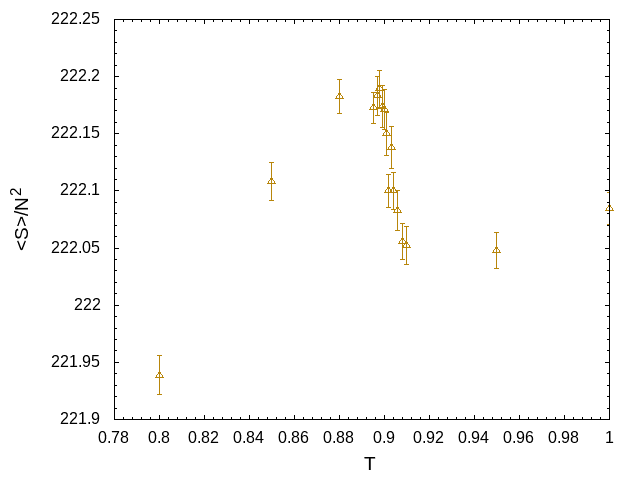
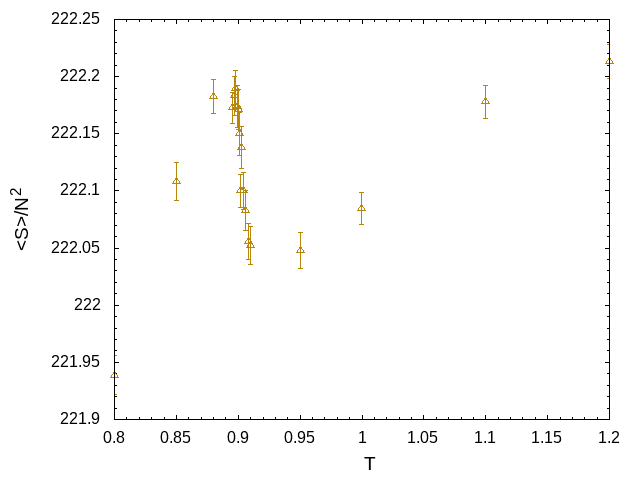
Added more ramp results

diff --git a/MatrixModels/BMN_Bosonic_Gauged/Nc32_24_mu2.0/t0.96/index.html b/MatrixModels/BMN_Bosonic_Gauged/Nc32_24_mu2.0/t0.96/index.html
@@ -1,0 +1,83 @@
+<html><head>
+<style>
+</style>
+<title>BMN_Bosonic_Gauged/Nc32_24_mu2.0/t0.96</title>
+</head>
+<body>
+<h1>BMN_Bosonic_Gauged/Nc32_24_mu2.0/t0.96</h1>
+  <div>
+    <table>
+      <tr><th>Action </th><th>Energy </th><th>Extent </th><th>SO(3) X SO(6) </th></tr>
+      <tr>
+        <td style="width:440px; height:300px;">
+        <img src="Results/action.png" width=400 height=300 />
+        </td>
+        <td style="width:440px; height:300px;">
+        <img src="Results/energy.png" width=400 height=300 />
+        </td>
+        <td style="width:440px; height:300px;">
+        <img src="Results/extent.png" width=400 height=300 />
+        </td>
+        <td style="width:440px; height:300px;">
+        <img src="Results/so.png" width=400 height=300 />
+        </td>
+      </tr>
+    </table>
+</div>
+  <div>
+    <table>
+      <tr><th>Gauge Force </th><th>Myers </th><th>Polyakov Loop </th><th>Polyakov Loop Scatter Plot </th></tr>
+      <tr>
+        <td style="width:440px; height:300px;">
+        <img src="Results/forces.png" width=400 height=300 />
+        </td>
+        <td style="width:440px; height:300px;">
+        <img src="Results/myers.png" width=400 height=300 />
+        </td>
+        <td style="width:440px; height:300px;">
+        <img src="Results/poly_mod.png" width=400 height=300 />
+        </td>
+        <td style="width:440px; height:300px;">
+        <img src="Results/poly.png" width=400 height=300 />
+        </td>
+      </tr>
+    </table>
+</div>
+ <div>
+    <table>
+      <tr><th>delta S </th><th>exp (- delta S) </th><th>|deta S| </th><th>Steps per Trajec </th></tr>
+      <tr>
+        <td style="width:440px; height:300px;">
+        <img src="Results/del.png" width=400 height=300 />
+        </td>
+        <td style="width:440px; height:300px;">
+        <img src="Results/exp_del.png" width=400 height=300 />
+        </td>
+        <td style="width:440px; height:300px;">
+        <img src="Results/mod_del.png" width=400 height=300 />
+        </td>
+        <td style="width:440px; height:300px;">
+        <img src="Results/nstep.png" width=400 height=300 />
+        </td>
+      </tr>
+    </table>
+</div>
+ <div>
+    <table>
+      <tr><th></th><th>Trajectory Length </th><th>HMC Acceptance Rate </th><th></th></tr>
+      <tr>
+      <td style="width:440px; height:300px;">
+      </td>
+        <td style="width:440px; height:300px;">
+        <img src="Results/traj.png" width=400 height=300 />
+        </td>
+        <td style="width:440px; height:300px;">
+        <img src="Results/rate.png" width=400 height=300 />
+        </td>
+        <td style="width:440px; height:300px;">
+      </td>
+      </tr>
+    </table>
+</div>
+</body>
+</html>

diff --git a/MatrixModels/BMN_Bosonic_Gauged/Nc32_24_mu1.0/t1.1/index.html b/MatrixModels/BMN_Bosonic_Gauged/Nc32_24_mu1.0/t1.1/index.html
@@ -1,0 +1,83 @@
+<html><head>
+<style>
+</style>
+<title>BMN_Bosonic_Gauged/Nc32_24_mu1.0/t1.1</title>
+</head>
+<body>
+<h1>BMN_Bosonic_Gauged/Nc32_24_mu1.0/t1.1</h1>
+  <div>
+    <table>
+      <tr><th>Action </th><th>Energy </th><th>Extent </th><th>SO(3) X SO(6) </th></tr>
+      <tr>
+        <td style="width:440px; height:300px;">
+        <img src="Results/action.png" width=400 height=300 />
+        </td>
+        <td style="width:440px; height:300px;">
+        <img src="Results/energy.png" width=400 height=300 />
+        </td>
+        <td style="width:440px; height:300px;">
+        <img src="Results/extent.png" width=400 height=300 />
+        </td>
+        <td style="width:440px; height:300px;">
+        <img src="Results/so.png" width=400 height=300 />
+        </td>
+      </tr>
+    </table>
+</div>
+  <div>
+    <table>
+      <tr><th>Gauge Force </th><th>Myers </th><th>Polyakov Loop </th><th>Polyakov Loop Scatter Plot </th></tr>
+      <tr>
+        <td style="width:440px; height:300px;">
+        <img src="Results/forces.png" width=400 height=300 />
+        </td>
+        <td style="width:440px; height:300px;">
+        <img src="Results/myers.png" width=400 height=300 />
+        </td>
+        <td style="width:440px; height:300px;">
+        <img src="Results/poly_mod.png" width=400 height=300 />
+        </td>
+        <td style="width:440px; height:300px;">
+        <img src="Results/poly.png" width=400 height=300 />
+        </td>
+      </tr>
+    </table>
+</div>
+ <div>
+    <table>
+      <tr><th>delta S </th><th>exp (- delta S) </th><th>|deta S| </th><th>Steps per Trajec </th></tr>
+      <tr>
+        <td style="width:440px; height:300px;">
+        <img src="Results/del.png" width=400 height=300 />
+        </td>
+        <td style="width:440px; height:300px;">
+        <img src="Results/exp_del.png" width=400 height=300 />
+        </td>
+        <td style="width:440px; height:300px;">
+        <img src="Results/mod_del.png" width=400 height=300 />
+        </td>
+        <td style="width:440px; height:300px;">
+        <img src="Results/nstep.png" width=400 height=300 />
+        </td>
+      </tr>
+    </table>
+</div>
+ <div>
+    <table>
+      <tr><th></th><th>Trajectory Length </th><th>HMC Acceptance Rate </th><th></th></tr>
+      <tr>
+      <td style="width:440px; height:300px;">
+      </td>
+        <td style="width:440px; height:300px;">
+        <img src="Results/traj.png" width=400 height=300 />
+        </td>
+        <td style="width:440px; height:300px;">
+        <img src="Results/rate.png" width=400 height=300 />
+        </td>
+        <td style="width:440px; height:300px;">
+      </td>
+      </tr>
+    </table>
+</div>
+</body>
+</html>

diff --git a/MatrixModels/BMN_Bosonic_Gauged/Nc32_24_mu1.0/t1.2/index.html b/MatrixModels/BMN_Bosonic_Gauged/Nc32_24_mu1.0/t1.2/index.html
@@ -1,0 +1,83 @@
+<html><head>
+<style>
+</style>
+<title>BMN_Bosonic_Gauged/Nc32_24_mu1.0/t1.2</title>
+</head>
+<body>
+<h1>BMN_Bosonic_Gauged/Nc32_24_mu1.0/t1.2</h1>
+  <div>
+    <table>
+      <tr><th>Action </th><th>Energy </th><th>Extent </th><th>SO(3) X SO(6) </th></tr>
+      <tr>
+        <td style="width:440px; height:300px;">
+        <img src="Results/action.png" width=400 height=300 />
+        </td>
+        <td style="width:440px; height:300px;">
+        <img src="Results/energy.png" width=400 height=300 />
+        </td>
+        <td style="width:440px; height:300px;">
+        <img src="Results/extent.png" width=400 height=300 />
+        </td>
+        <td style="width:440px; height:300px;">
+        <img src="Results/so.png" width=400 height=300 />
+        </td>
+      </tr>
+    </table>
+</div>
+  <div>
+    <table>
+      <tr><th>Gauge Force </th><th>Myers </th><th>Polyakov Loop </th><th>Polyakov Loop Scatter Plot </th></tr>
+      <tr>
+        <td style="width:440px; height:300px;">
+        <img src="Results/forces.png" width=400 height=300 />
+        </td>
+        <td style="width:440px; height:300px;">
+        <img src="Results/myers.png" width=400 height=300 />
+        </td>
+        <td style="width:440px; height:300px;">
+        <img src="Results/poly_mod.png" width=400 height=300 />
+        </td>
+        <td style="width:440px; height:300px;">
+        <img src="Results/poly.png" width=400 height=300 />
+        </td>
+      </tr>
+    </table>
+</div>
+ <div>
+    <table>
+      <tr><th>delta S </th><th>exp (- delta S) </th><th>|deta S| </th><th>Steps per Trajec </th></tr>
+      <tr>
+        <td style="width:440px; height:300px;">
+        <img src="Results/del.png" width=400 height=300 />
+        </td>
+        <td style="width:440px; height:300px;">
+        <img src="Results/exp_del.png" width=400 height=300 />
+        </td>
+        <td style="width:440px; height:300px;">
+        <img src="Results/mod_del.png" width=400 height=300 />
+        </td>
+        <td style="width:440px; height:300px;">
+        <img src="Results/nstep.png" width=400 height=300 />
+        </td>
+      </tr>
+    </table>
+</div>
+ <div>
+    <table>
+      <tr><th></th><th>Trajectory Length </th><th>HMC Acceptance Rate </th><th></th></tr>
+      <tr>
+      <td style="width:440px; height:300px;">
+      </td>
+        <td style="width:440px; height:300px;">
+        <img src="Results/traj.png" width=400 height=300 />
+        </td>
+        <td style="width:440px; height:300px;">
+        <img src="Results/rate.png" width=400 height=300 />
+        </td>
+        <td style="width:440px; height:300px;">
+      </td>
+      </tr>
+    </table>
+</div>
+</body>
+</html>

diff --git a/MatrixModels/BMN_Bosonic_Gauged/Nc32_24_mu2.0/t1.1/index.html b/MatrixModels/BMN_Bosonic_Gauged/Nc32_24_mu2.0/t1.1/index.html
@@ -1,0 +1,83 @@
+<html><head>
+<style>
+</style>
+<title>BMN_Bosonic_Gauged/Nc32_24_mu2.0/t1.1</title>
+</head>
+<body>
+<h1>BMN_Bosonic_Gauged/Nc32_24_mu2.0/t1.1</h1>
+  <div>
+    <table>
+      <tr><th>Action </th><th>Energy </th><th>Extent </th><th>SO(3) X SO(6) </th></tr>
+      <tr>
+        <td style="width:440px; height:300px;">
+        <img src="Results/action.png" width=400 height=300 />
+        </td>
+        <td style="width:440px; height:300px;">
+        <img src="Results/energy.png" width=400 height=300 />
+        </td>
+        <td style="width:440px; height:300px;">
+        <img src="Results/extent.png" width=400 height=300 />
+        </td>
+        <td style="width:440px; height:300px;">
+        <img src="Results/so.png" width=400 height=300 />
+        </td>
+      </tr>
+    </table>
+</div>
+  <div>
+    <table>
+      <tr><th>Gauge Force </th><th>Myers </th><th>Polyakov Loop </th><th>Polyakov Loop Scatter Plot </th></tr>
+      <tr>
+        <td style="width:440px; height:300px;">
+        <img src="Results/forces.png" width=400 height=300 />
+        </td>
+        <td style="width:440px; height:300px;">
+        <img src="Results/myers.png" width=400 height=300 />
+        </td>
+        <td style="width:440px; height:300px;">
+        <img src="Results/poly_mod.png" width=400 height=300 />
+        </td>
+        <td style="width:440px; height:300px;">
+        <img src="Results/poly.png" width=400 height=300 />
+        </td>
+      </tr>
+    </table>
+</div>
+ <div>
+    <table>
+      <tr><th>delta S </th><th>exp (- delta S) </th><th>|deta S| </th><th>Steps per Trajec </th></tr>
+      <tr>
+        <td style="width:440px; height:300px;">
+        <img src="Results/del.png" width=400 height=300 />
+        </td>
+        <td style="width:440px; height:300px;">
+        <img src="Results/exp_del.png" width=400 height=300 />
+        </td>
+        <td style="width:440px; height:300px;">
+        <img src="Results/mod_del.png" width=400 height=300 />
+        </td>
+        <td style="width:440px; height:300px;">
+        <img src="Results/nstep.png" width=400 height=300 />
+        </td>
+      </tr>
+    </table>
+</div>
+ <div>
+    <table>
+      <tr><th></th><th>Trajectory Length </th><th>HMC Acceptance Rate </th><th></th></tr>
+      <tr>
+      <td style="width:440px; height:300px;">
+      </td>
+        <td style="width:440px; height:300px;">
+        <img src="Results/traj.png" width=400 height=300 />
+        </td>
+        <td style="width:440px; height:300px;">
+        <img src="Results/rate.png" width=400 height=300 />
+        </td>
+        <td style="width:440px; height:300px;">
+      </td>
+      </tr>
+    </table>
+</div>
+</body>
+</html>

diff --git a/MatrixModels/BMN_Bosonic_Gauged/Nc32_24_mu2.0/index.html b/MatrixModels/BMN_Bosonic_Gauged/Nc32_24_mu2.0/index.html
@@ -40,7 +40,11 @@
   </tr>
   <tr>
     <th><br><a href="t0.92/index.html">t0.92</a></th>
+    <th><br><a href="t0.96/index.html">t0.96</a></th>
     <th><br><a href="t1.0/index.html">t1.0</a></th>
+    </tr>
+  <tr>
+    <th><br><a href="t1.1/index.html">t1.1</a></th>
     <th><br><a href="t1.2/index.html">t1.2</a></th>
   </tr>
 </table>

diff --git a/MatrixModels/BMN_Bosonic_Gauged/Nc32_24_mu1.0/index.html b/MatrixModels/BMN_Bosonic_Gauged/Nc32_24_mu1.0/index.html
@@ -34,6 +34,8 @@
   </tr>
 <tr>
     <th><br><a href="t1.0/index.html">t1.0</a></th>
+    <th><br><a href="t1.1/index.html">t1.1</a></th>
+    <th><br><a href="t1.2/index.html">t1.2</a></th>
   </tr>
 </table>
 <br>
